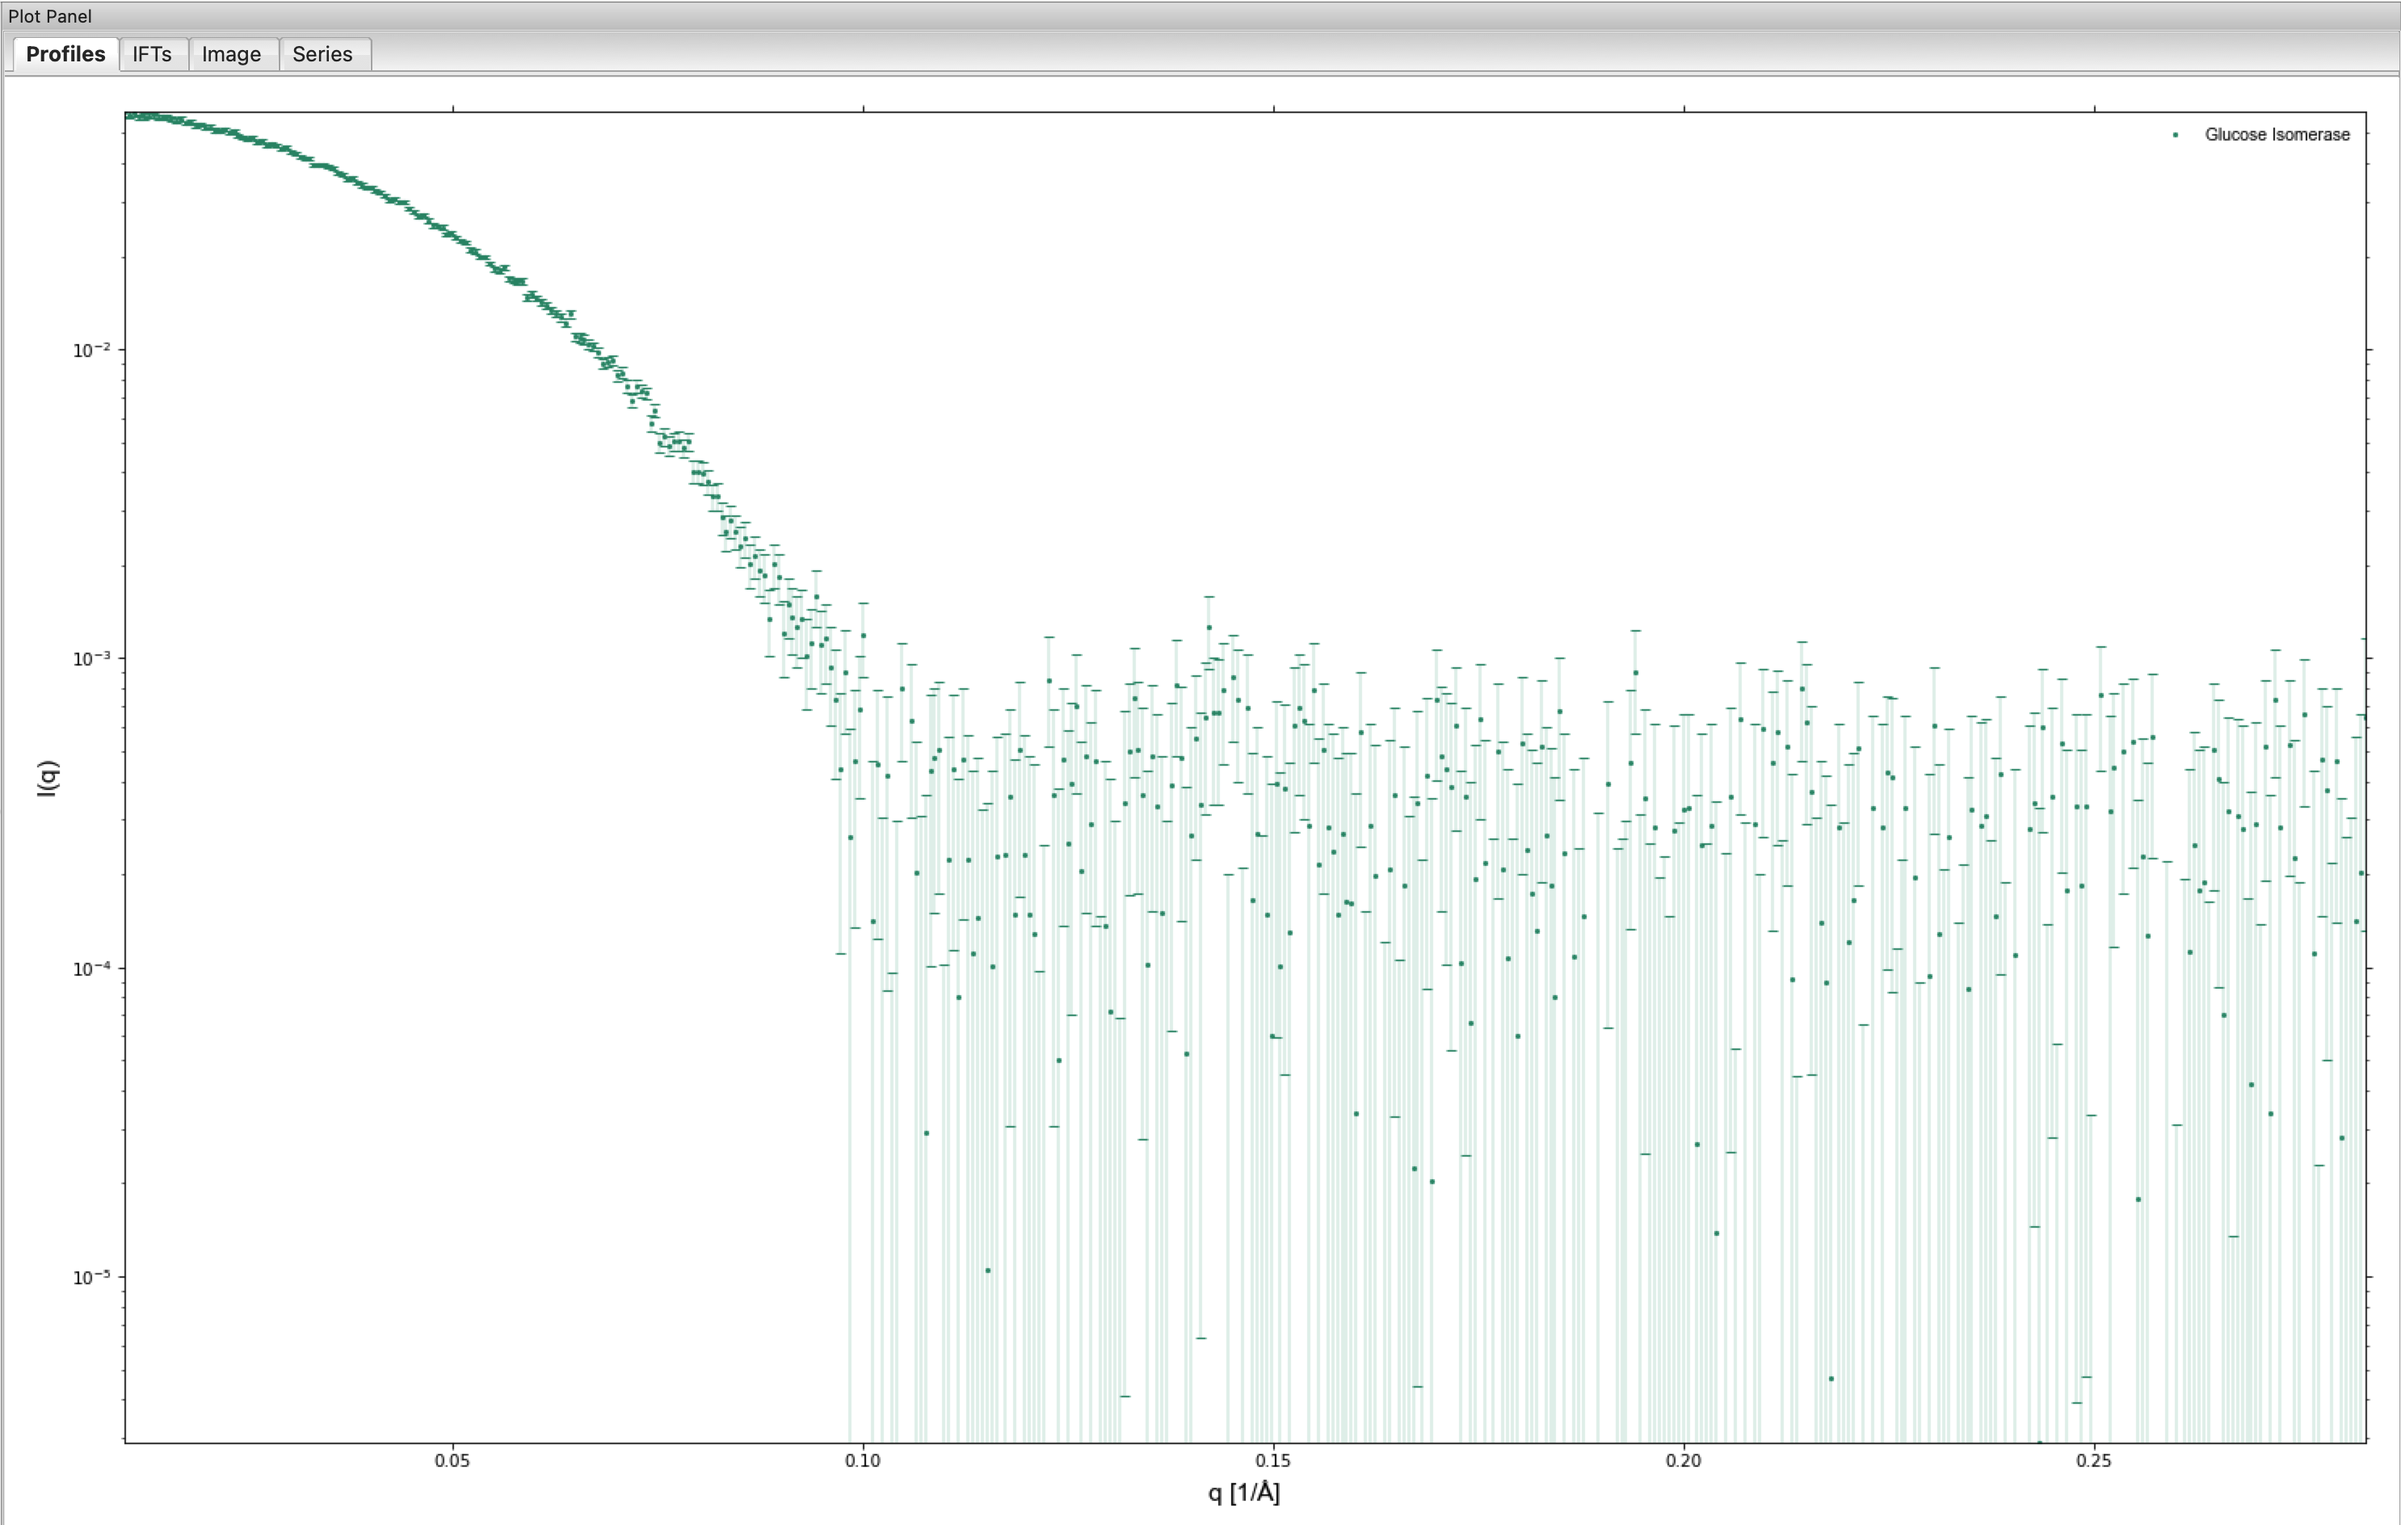
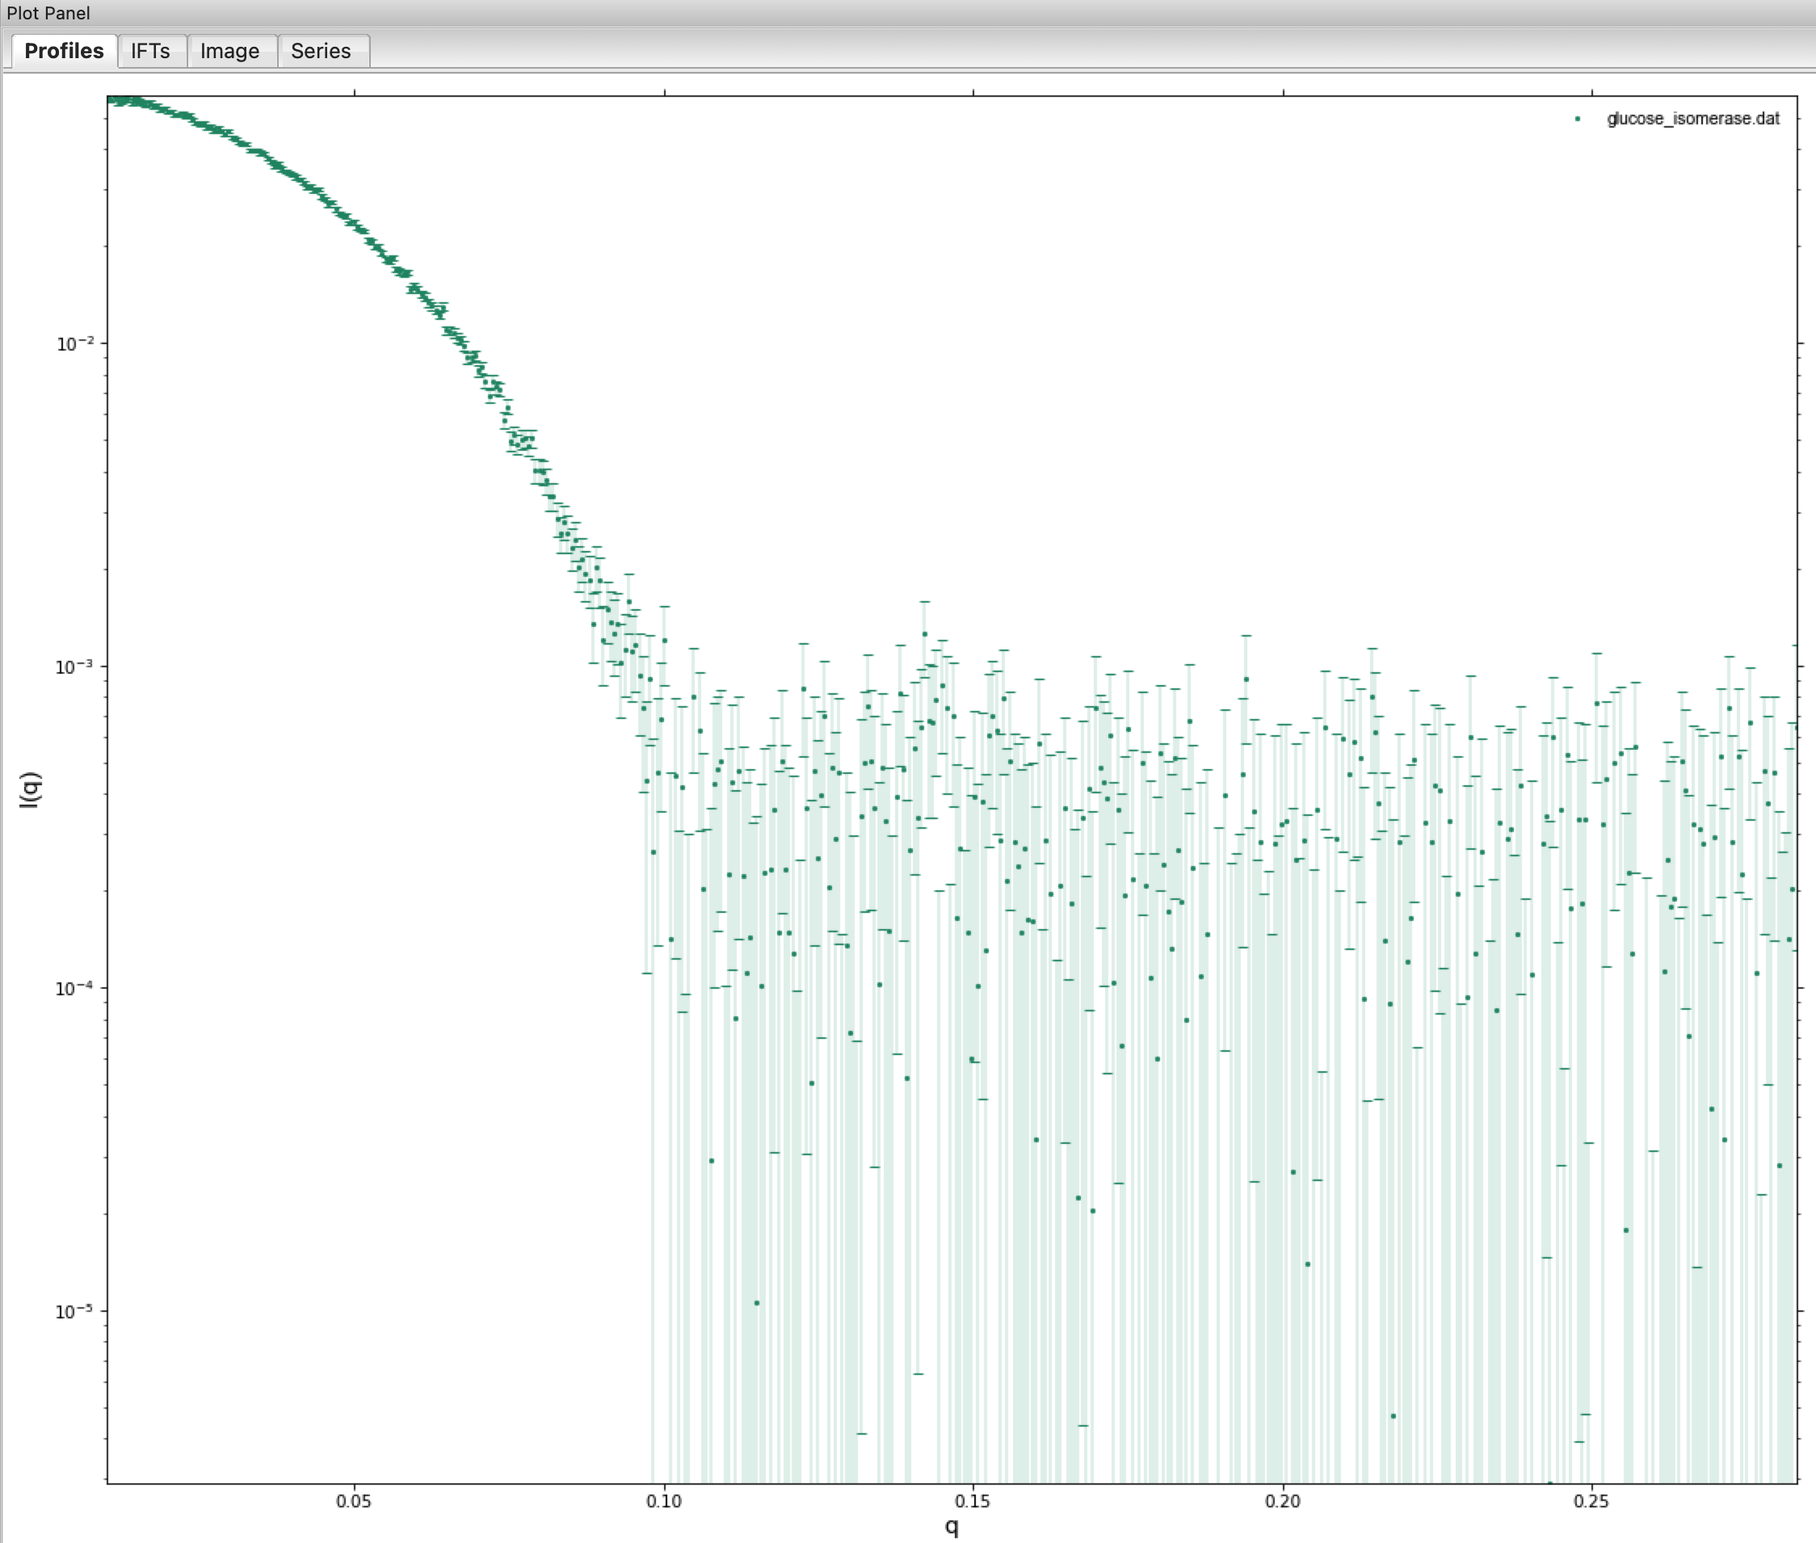
Added a tutorial on exporting plots. Finished tutorial on saving plots.

Changed region(s): [[0.0, 0.0, 1.0, 1.0], [0.0311, 0.625, 0.0623, 0.9375], [0.0, 0.4062, 0.0623, 0.5938]]

diff --git a/bioxtasraw/RAWAnalysis.py b/bioxtasraw/RAWAnalysis.py
@@ -720,7 +720,7 @@ class GuinierPlotPanel(wx.Panel):
             data_list.append(y)
             data_list.append(yerr)
 
-            header = header + '{},{},{},'.format('q**2_data', 'ln(I(q))_data', 'error_data')
+            header = header + '#{},{},{},'.format('q**2_data', 'ln(I(q))_data', 'error_data')
 
 
             x_fit = self.fit_line.get_xdata()

diff --git a/docs/source/conf.py b/docs/source/conf.py
@@ -62,7 +62,7 @@ linux_install = 'install/linux_install'
 
 # General information about the project.
 project = u'BioXTAS RAW'
-copyright = u'2017-2021, Jesse B. Hopkins'
+copyright = u'2017-2023, Jesse B. Hopkins'
 author = u'Jesse B. Hopkins'
 
 # The version info for the project you're documenting, acts as replacement for

diff --git a/docs/source/tutorial/s4_export_plots.rst b/docs/source/tutorial/s4_export_plots.rst
@@ -1,0 +1,152 @@
+Exporting plot data
+^^^^^^^^^^^^^^^^^^^^^^^^^^^^^^^^^
+.. _raw_export_plot:
+
+This tutorial covers how to export plot data in RAW for using in other programs.
+This is intended to be distinct from saving data in formats that RAW knows how
+to read (e.g. .dat, .ift, .hdf5 for profiles, IFTs, and series respectively), as
+the export formats cannot be read back into RAW. Exporting data in this way is
+most useful for generating your own figures in other software.
+
+The written version of the tutorial follows.
+
+
+Exporting plot data as csv
+***************************
+
+The following plots let you right click on the plot and export the data shown on
+the plot as a csv file:
+
+*   Guinier fit (not the Guinier axes on the Profiles plot panel)
+*   Dimensionless Kratky
+*   Comparison (Residuals and Ratios)
+*   CRYSOL
+*   IFT plot panel
+
+We will demonstrate how to do this using the Guinier fit plot.
+
+#.  Load the glucose_isomerase.dat dataset in the reconstruction_data folder.
+
+#.  Open the Guinier fit window by selecting the profile in the control
+    panel and clicking the "Guinier" button.
+
+    *   Tip: For the IFT plot panel, the top and bottom plot (P(r) functions and
+        data/fit in q space) export separately, so if you want both you will
+        need to right click and export from both the top and bottom plot.
+        For the other windows listed above, all data on all plots shown is
+        exported at once.
+
+#.  In the Guinier fit window, right click on the plot and select "Export
+    Data as CSV".
+
+    |export_guinier_png|
+
+#.  Give the file an appropriate name and location and save the file.
+
+Note: Comma separated value (.csv) files can be read directly by most
+spreadsheet programs like Excel. They are text files that can be opened
+and examined directly in a text editor.
+
+
+Exporting SVD, EFA, and REGALS plot data
+*****************************************
+
+SVD, EFA, and REGALS plot data (including the singular values, autocorrelations,
+forward and backward EFA plots and EFA and REGALS result plots) can be saved
+from the various analysis windows.
+
+#.  Load the phehc_sec.hdf5 file in the series_data folder.
+
+#.  Open the SVD window by right clicking on the phehc_sec.hdf5 series item
+    and selecting "SVD".
+
+#.  Use the "Save Plotted Values" button to save the plotted Singular Values and
+    AutoCorrelation values as a .csv file.
+
+    *   Tip: If you want to save more values, increase the end value of the
+        plot indexes.
+
+#.  Use the "Save All" button to save the singular values, autocorrelation values,
+    and the left and right singular vectors as a .csv file.
+
+    |export_svd_png|
+
+#.  Close the SVD window and open the EFA window. Proceed with the EFA analysis
+    until you reach the final results page.
+
+#.  Use the "Save EFA Data (not profiles)" button to save the EFA results that
+    aren't the profiles in a .csv file. This includes metadata, the concentration
+    profiles, the chi^2 vs. frame, the forward and backward EFA data, the full
+    singular values and the left and right singular vectors for the number of
+    components selected for EFA.
+
+    |export_efa_png|
+
+#.  Close the EFA window and open the REGALS window. Proceed with the REGALS
+    analysis until you reach the final results page.
+
+#.  Use the "Save REGALS data (not profiles)" button to save the REGALS results
+    that aren't the profiles in a .csv file. This includes metadata, the
+    concentration profiles, the smoothed concentration profiles, the chi^2 vs.
+    frame, the component P(r) functions if calculated, the forward and
+    backward EFA data, the full singular values and the left and right singular
+    vectors for the number of components selected for REGALS.
+
+    |export_regals_png|
+
+
+Exporting series plot data
+***************************
+
+Series plot data (including the integrated intensity vs. frame and Rg vs. frame
+values) can be saved from the Series control panel.
+
+#.  Load the baseline.hdf5 file in the series_data folder.
+
+#.  In the Series control panel, right click on the baseline.hdf5 item and
+    select "Export data".
+
+#.  Save the .csv file with an appropriate filename and location. This file
+    contains some metadata, and the integrated intensity, mean intensity,
+    if appropriate intensity in a fixed q range or at a fixed q value,
+    subtracted intensity (integrated, mean, q range and q value), Rg,
+    Rg uncertainty, I(0), I(0) uncertainty, MW and MW uncertainty from Vc,
+    MW from Vp, and filename for each frame.
+
+    |export_series_png|
+
+
+Saving reconstruction plots
+*****************************
+
+The reconstruction plots (dammif/n residual plots and denss residual,
+convergence and fsc plots) are automatically saved as
+<prefix>_dammif_results.pdf or <prefix>_denss_results.pdf. However,
+the data that makes the plots is not necessarily saved.
+
+For DAMMIF/N results, if you want to recreate the residuals plots you can
+load the .fir file, which has the fit and experimental data, and open those
+two curves in the Comparison window to make a residual plot. The residual
+data can be exported from there. Alternatively, you could calculate the
+normalized residual directly from the data and fit.
+
+For the DENSS results, the convergence data is saved in the _by_step.fit files,
+the fsc data is saved in the _fsc.dat file, and the fit data is saved in the
+_map.fit for each individual model.
+
+
+.. |export_guinier_png| image:: images/export_guinier.png
+    :target: ../_images/export_guinier.png
+
+.. |export_svd_png| image:: images/export_svd.png
+    :target: ../_images/export_svd.png
+
+.. |export_efa_png| image:: images/export_efa.png
+    :target: ../_images/export_efa.png
+
+.. |export_regals_png| image:: images/export_regals.png
+    :target: ../_images/export_regals.png
+
+.. |export_series_png| image:: images/export_series.png
+    :target: ../_images/export_series.png
+    :width: 400 px

diff --git a/docs/source/tutorial/s4_save_plots.rst b/docs/source/tutorial/s4_save_plots.rst
@@ -1,6 +1,6 @@
 Customizing and saving plots
 ^^^^^^^^^^^^^^^^^^^^^^^^^^^^^^^^^
-.. _raw_mw:
+.. _raw_save_plot:
 
 This tutorial covers how to customize plots in RAW and save plots from RAW.
 Note that RAW is not meant to be a program for making publication quality
@@ -32,12 +32,12 @@ Customizing plots in RAW
     |plot_options1_png|
 
 #.  In the options window, do the following: Turn on the Top and Right borders,
-    Change the x-axis label to give the q units, as "$q$ $[1/\AA]$". Click "Okay"
+    Change the x-axis label to give the q units, as "$q$ $[1/\\AA]$". Click "Okay"
     to exit the plot options window.
 
     *   Tip: Anything inside of "$" signs in a plot label or legend label is
         parsed as a TeX markup, which allows you to use special symbols like
-        the angstrom symbol, Å, as $\AA$. A useful guide to allowed formating
+        the angstrom symbol, Å, as $\\AA$. A useful guide to allowed formatting
         and special characters input can be found in the matplotlib documentation:
         https://matplotlib.org/stable/tutorials/text/mathtext.html
 
@@ -47,18 +47,22 @@ Customizing plots in RAW
 
     |plot_checkpoint1_png|
 
+#.  Adjust the size of the RAW window to adjust the aspect ratio of the plot and
+    make it roughly square.
+
 #.  Use the horizontal slider bar button in the plot toolbar to open the margin
     adjustment for the plot.
 
     |plot_margins1_png|
 
 #.  In the window that opens, use the left, right, top, and bottom sliders
-    to bring the edges of the plot close to the edges of the window.
+    to bring the edges of the plot close to the edges of the window. Close the
+    margin adjustment window when done.
 
     |plot_margins2_png|
 
 #.  Click on the colored line in the glucose_isomerase.dat item in the Profiles
-    Control Panel to open the Line Properies window.
+    Control Panel to open the Line Properties window.
 
     |plot_line_properties1_png|
 
@@ -97,9 +101,9 @@ Customizing plots in RAW
 
 Note: All of the main plots in RAW ("Profiles", "IFTs", "Series") can be
 customized in a similar way. All of the items in the control panel have
-the line optiosn dialogs. All of the plots have plot options. Analysis
+the line options dialogs. All of the plots have plot options. Analysis
 plots (such as the Guinier plot) don't generally have most of these customization
-options. All of the analysis plos will have the ability to set the margins and
+options. All of the analysis plots will have the ability to set the margins and
 to zoom/drag to adjust what's visible, not nothing else. The exception to this
 is the Dimensionless Krakty plot, where you can adjust the line color (but nothing else).
 
@@ -110,6 +114,21 @@ as desired.
 
 Saving plots in RAW
 *****************************
+
+#.  Click the Save icon in the plot toolbar at the bottom of the plot window to
+    open the save dialog.
+
+    |plot_save_png|
+
+#.  Select an appropriate file type, filename, and location, then save the image.
+
+Note: We recommend using vector graphics formats for plots that you'll be including
+in presentations or papers. Vector graphics are images that can be rescaled
+(preserving aspect ratio) arbitrarily without loss of quality. We recommend the
+"Scalable Vector Graphics" (.svg) format for vector graphics saved with
+matplotlib, but you can select other options as it suits your needs. For raster
+graphics (e.g. images with a defined set of pixels) we recommend "Portable
+Network File" (.png) as it has lossless compression.
 
 
 .. |show_plot1_png| image:: images/show_plot1.png
@@ -129,18 +148,22 @@ Saving plots in RAW
 
 .. |plot_margins1_png| image:: images/plot_margins1.png
     :target: ../_images/plot_margins1.png
+    :width: 400 px
 
 .. |plot_margins2_png| image:: images/plot_margins2.png
     :target: ../_images/plot_margins2.png
 
 .. |plot_line_properties1_png| image:: images/plot_line_properties1.png
     :target: ../_images/plot_line_properties1.png
+    :width: 400 px
 
 .. |plot_line_properties2_png| image:: images/plot_line_properties2.png
     :target: ../_images/plot_line_properties2.png
+    :width: 450 px
 
 .. |plot_errorbars_png| image:: images/plot_errorbars.png
     :target: ../_images/plot_errorbars.png
+    :width: 400 px
 
 .. |plot_checkpoint2_png| image:: images/plot_checkpoint2.png
     :target: ../_images/plot_checkpoint2.png
@@ -150,3 +173,7 @@ Saving plots in RAW
 
 .. |plot_checkpoint3_png| image:: images/plot_checkpoint3.png
     :target: ../_images/plot_checkpoint3.png
+
+.. |plot_save_png| image:: images/plot_save.png
+    :target: ../_images/plot_save.png
+    :width: 400 px

diff --git a/docs/source/tutorial/section4.rst b/docs/source/tutorial/section4.rst
@@ -16,6 +16,7 @@ Sections 1 and 2.
 .. toctree::
    :maxdepth: 2
 
-   s4_saveplots
+   s4_save_plots
+   s4_export_plots
 
 
